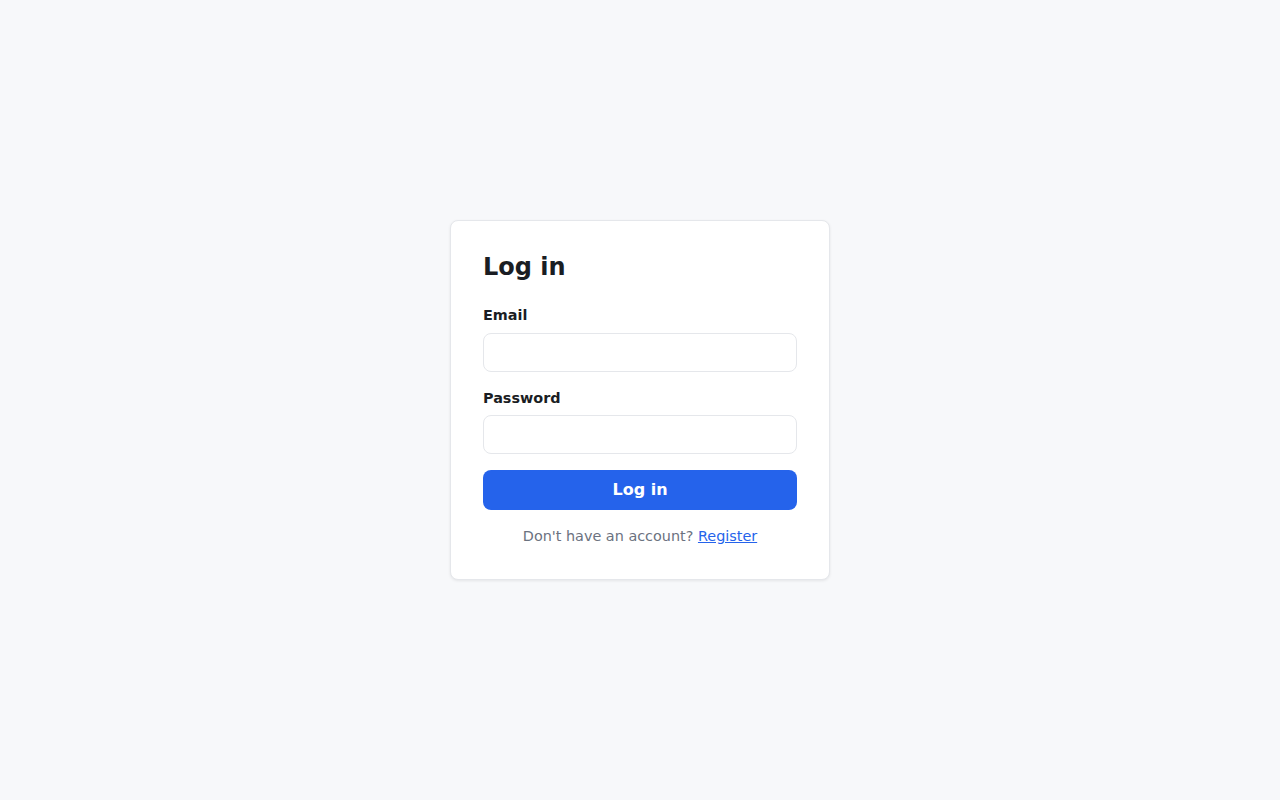
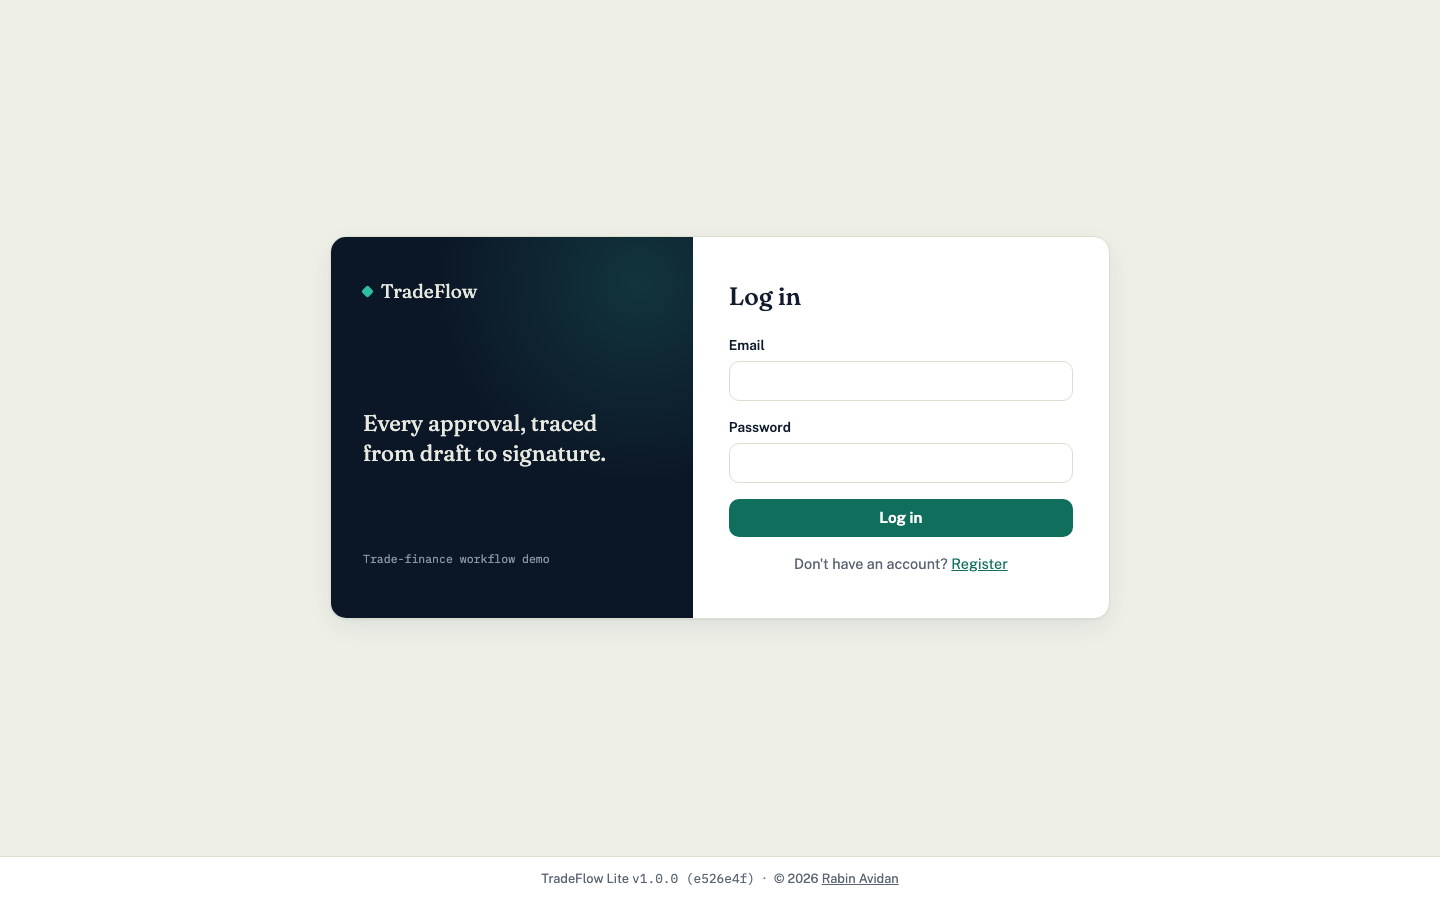
docs: refresh README screenshots for the trade-ledger redesign
Re-captured all UI screenshots against the current app (previous set
predated the dark-nav-rail/Fraunces redesign) and added the login and
trade list screens, which weren't previously shown.

Claude-Session: https://claude.ai/code/session_017EAJJM5QpCSwFkX4R8pUPd

Changed region(s): [[0.2188, 0.25, 0.7812, 0.7188], [0.375, 0.9688, 0.625, 1.0]]

diff --git a/README.md b/README.md
@@ -51,9 +51,13 @@ KYC, or payment rails.)*
 
 ## Screenshots
 
-| Dashboard | Trade details |
+| Login | Dashboard |
 | --- | --- |
-| ![Dashboard](docs/screenshots/02-dashboard.png) | ![Trade details](docs/screenshots/04-trade-details.png) |
+| ![Login](docs/screenshots/01-login.png) | ![Dashboard](docs/screenshots/02-dashboard.png) |
+
+| Trade requests | Trade details |
+| --- | --- |
+| ![Trade requests](docs/screenshots/03-trade-list.png) | ![Trade details](docs/screenshots/04-trade-details.png) |
 
 | New trade request (with AI description) | Interactive API docs |
 | --- | --- |
